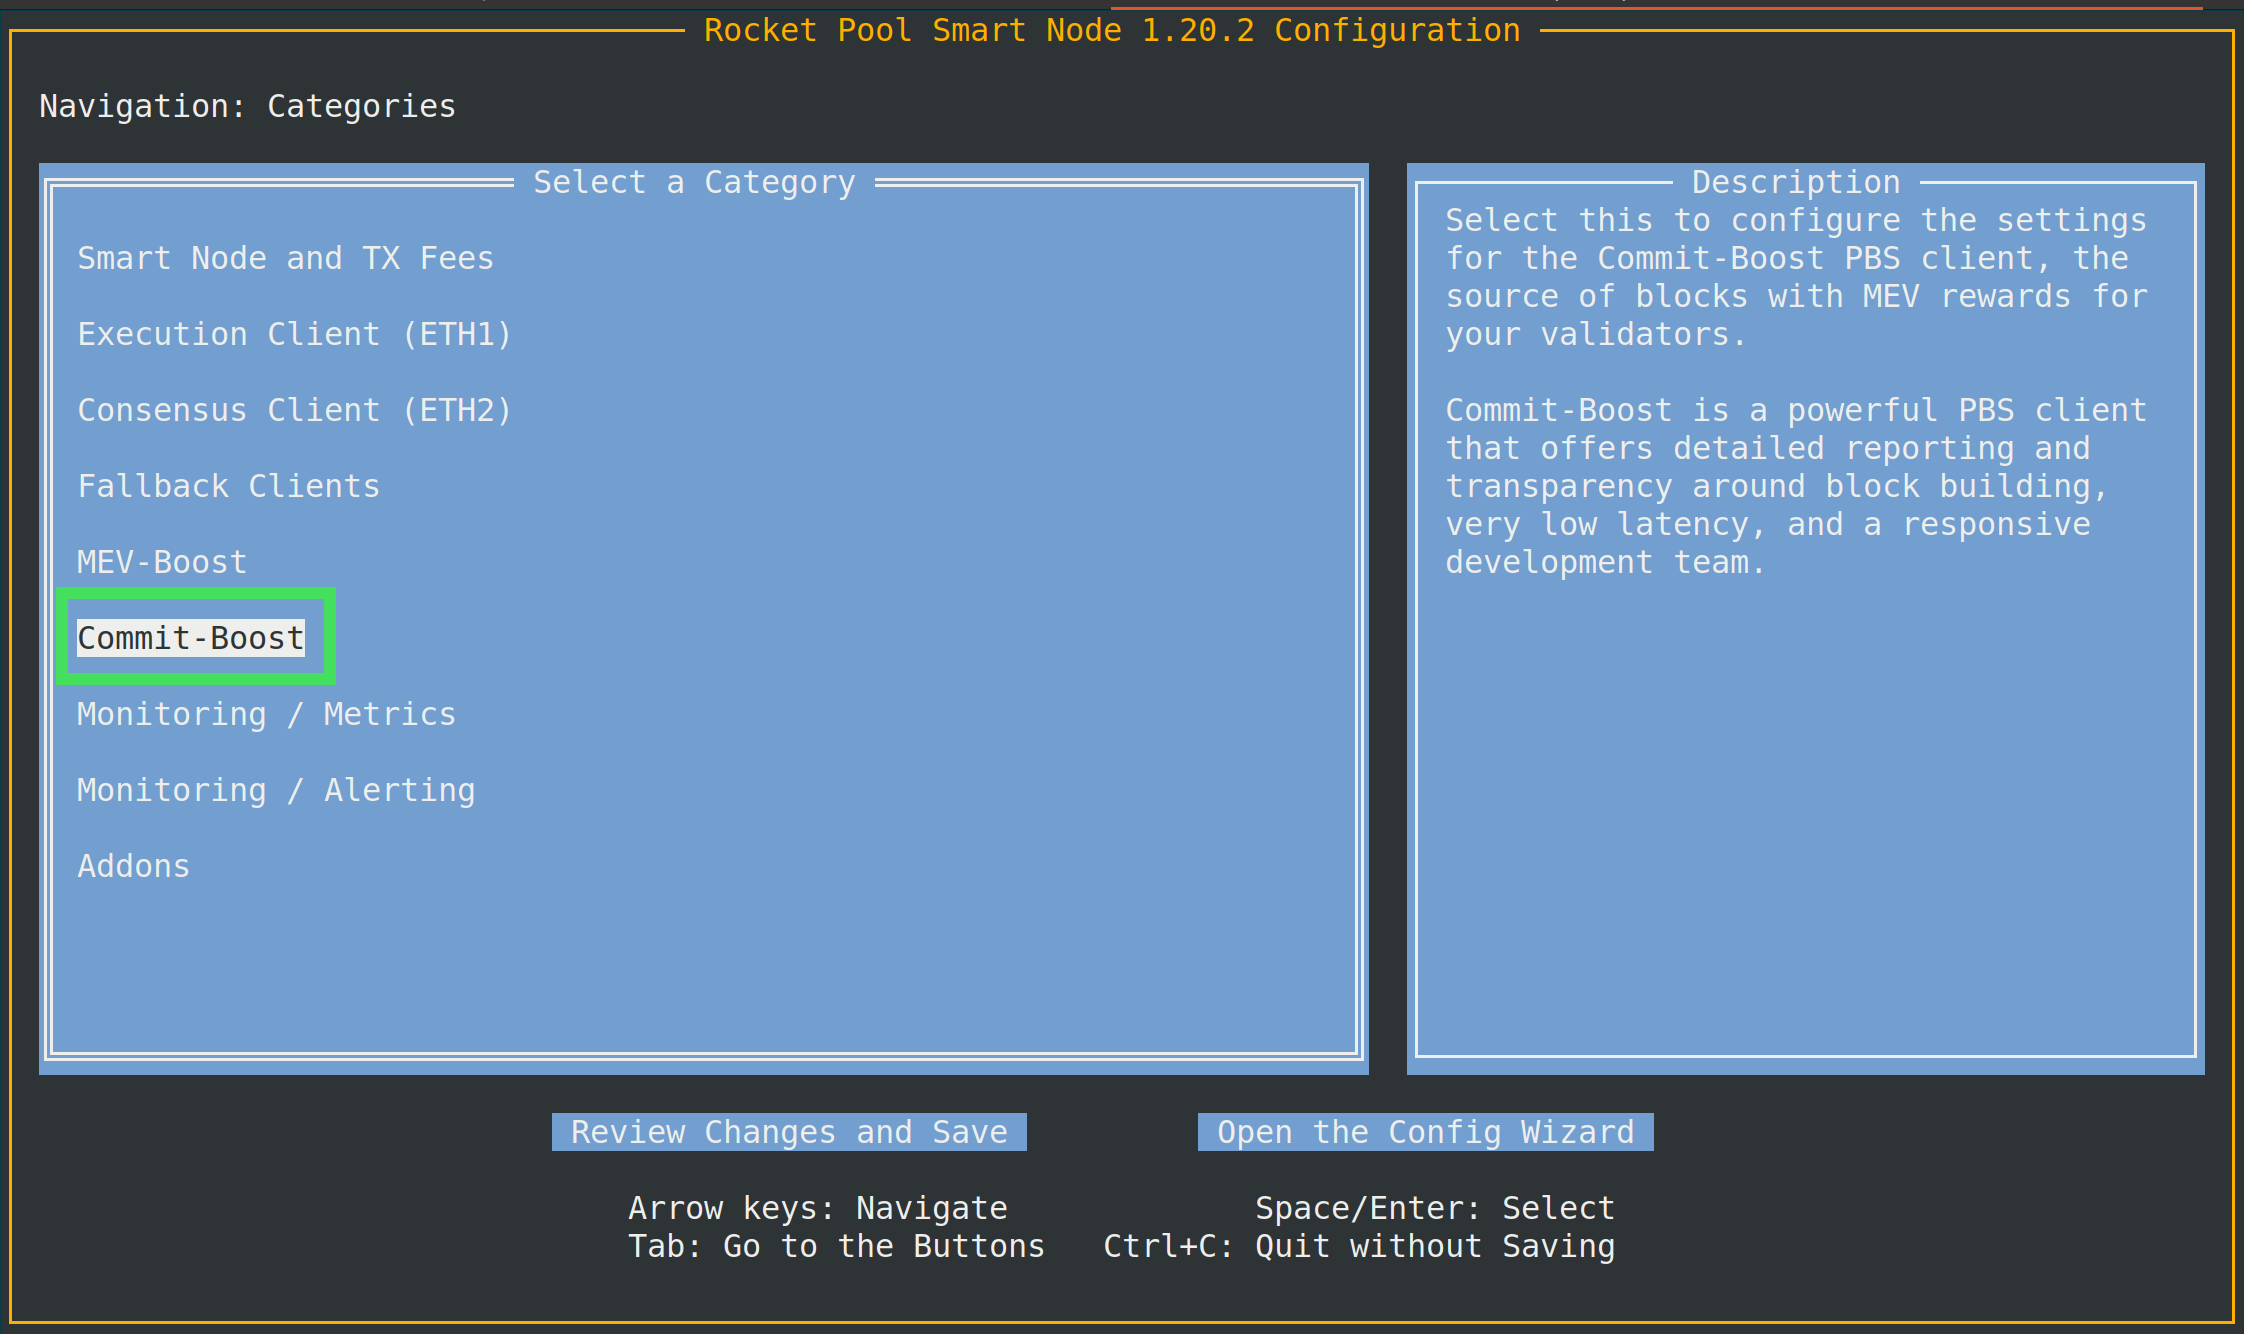
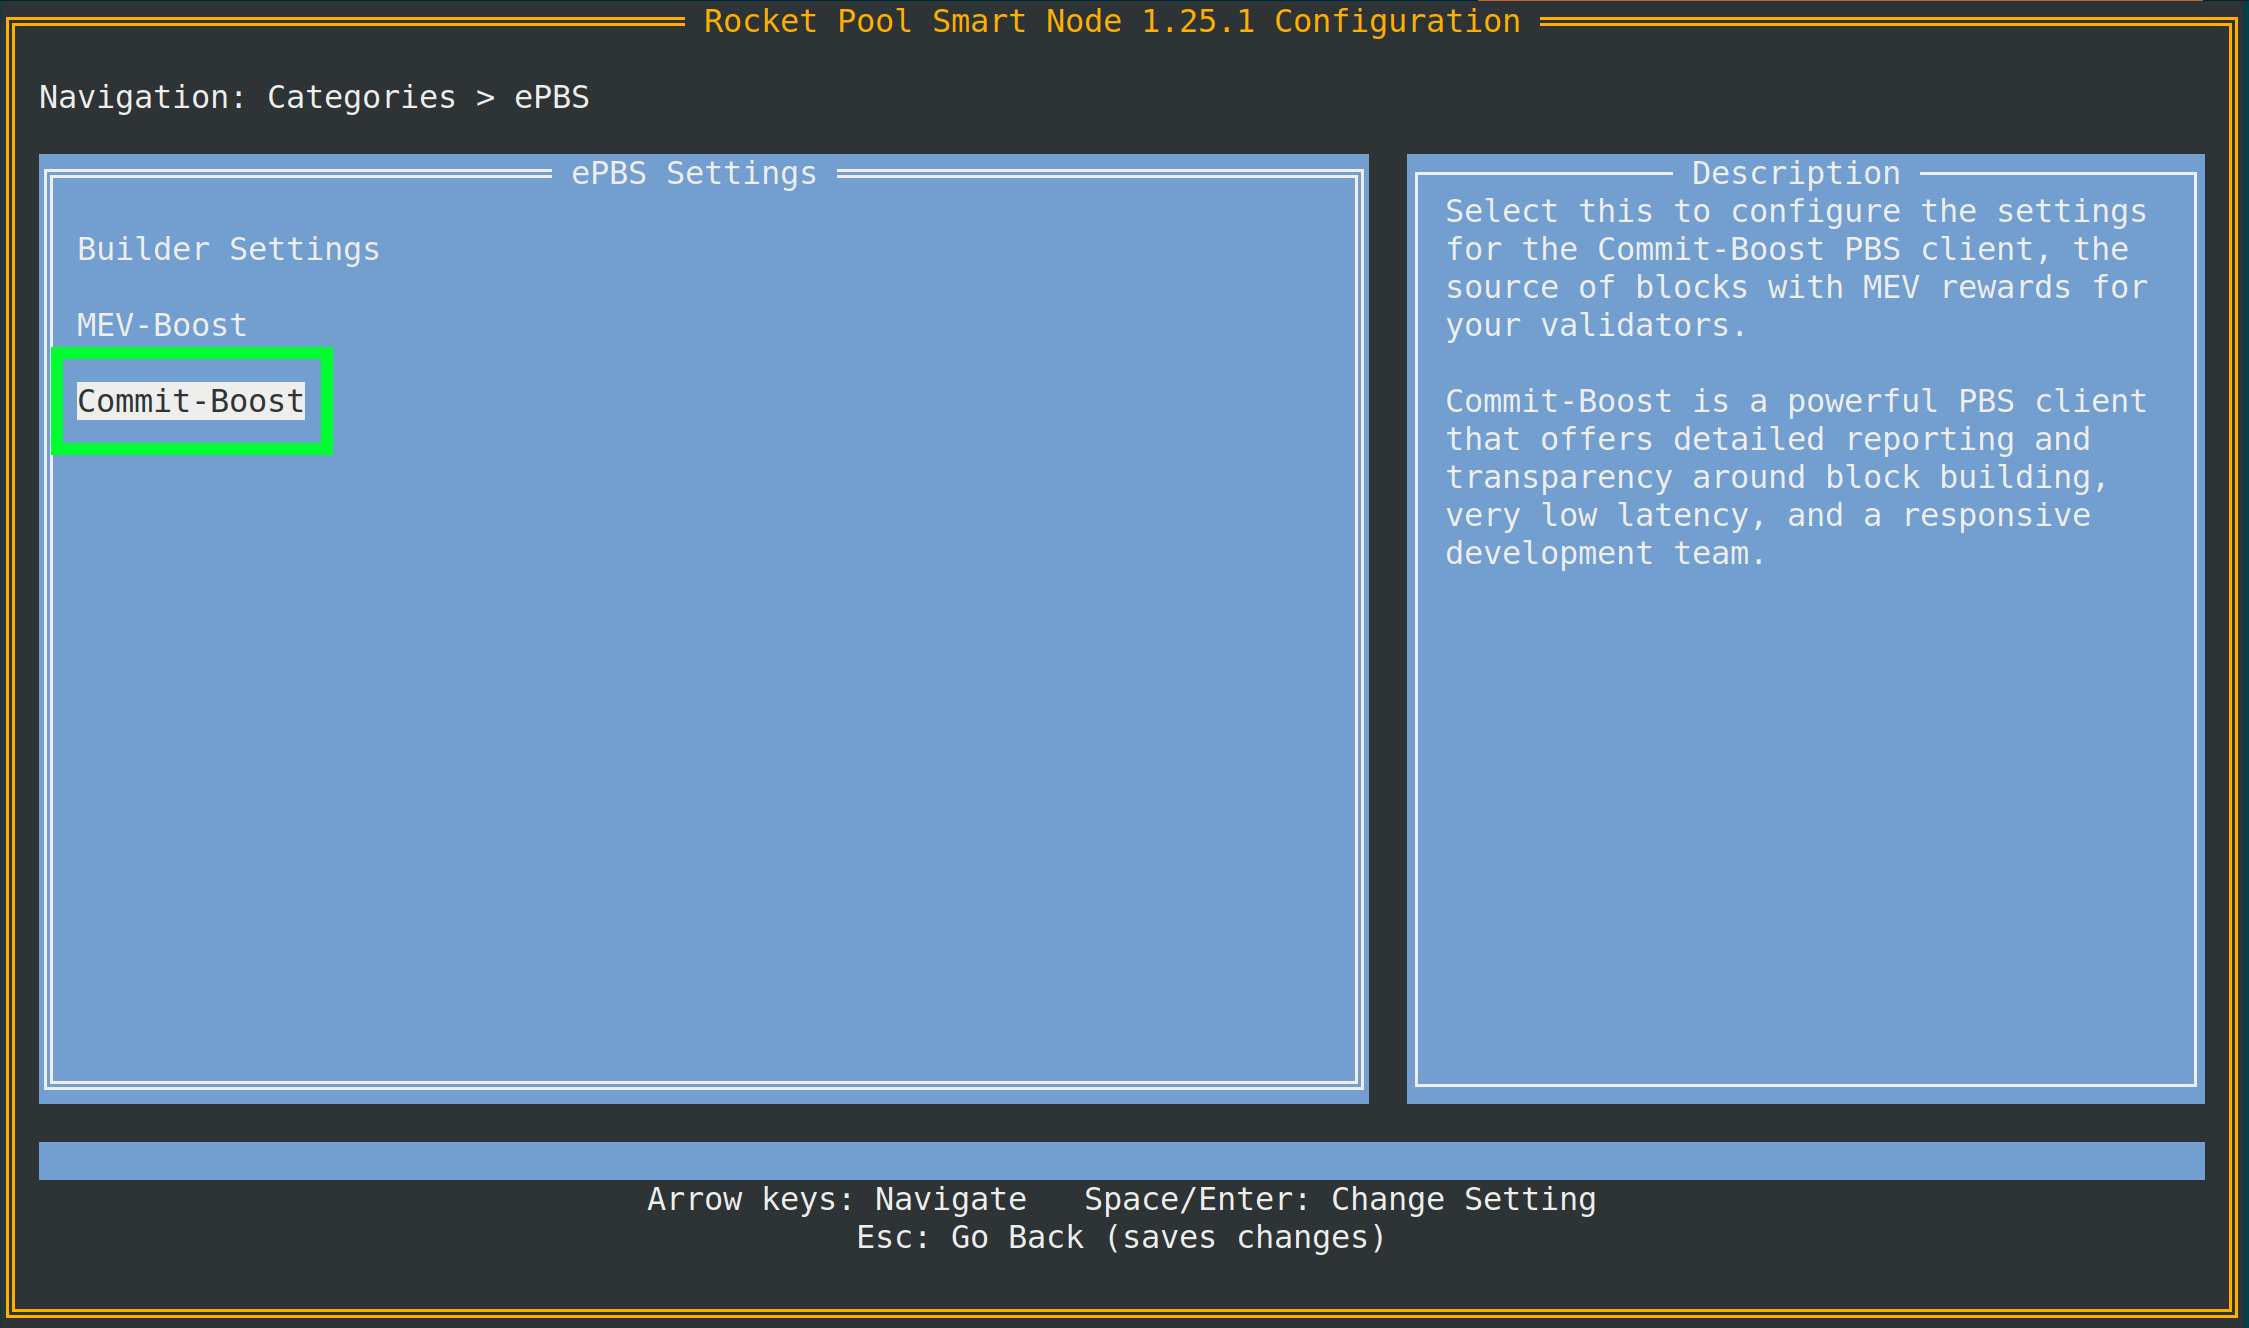
docs: update commit-boost guides for sn v1.25.1

Changed region(s): [[0.0, 0.0, 1.0, 1.0], [0.1556, 0.5866, 0.2179, 0.6175]]

diff --git a/docs/en/node-staking/provisioning/overview.md b/docs/en/node-staking/provisioning/overview.md
@@ -33,4 +33,4 @@ Use this guide if you already have a node wallet that you want to recover onto y
 
 [MEV, MEV-Boost, and MEV Rewards](../mev.mdx) explains **Maximum-Extractable Value** (MEV), its role in the staking ecosystem, and how you can configure it to your liking using the Smart Node.
 
-[Commit-Boost](../commit-boost.mdx) covers Commit-Boost, an alternative to MEV-Boost that supports additional features like preconfirmations and inclusion lists.
+[Commit-Boost](../commit-boost.mdx) covers Commit-Boost, an alternative to MEV-Boost that you can enable in the Smart Node instead.
